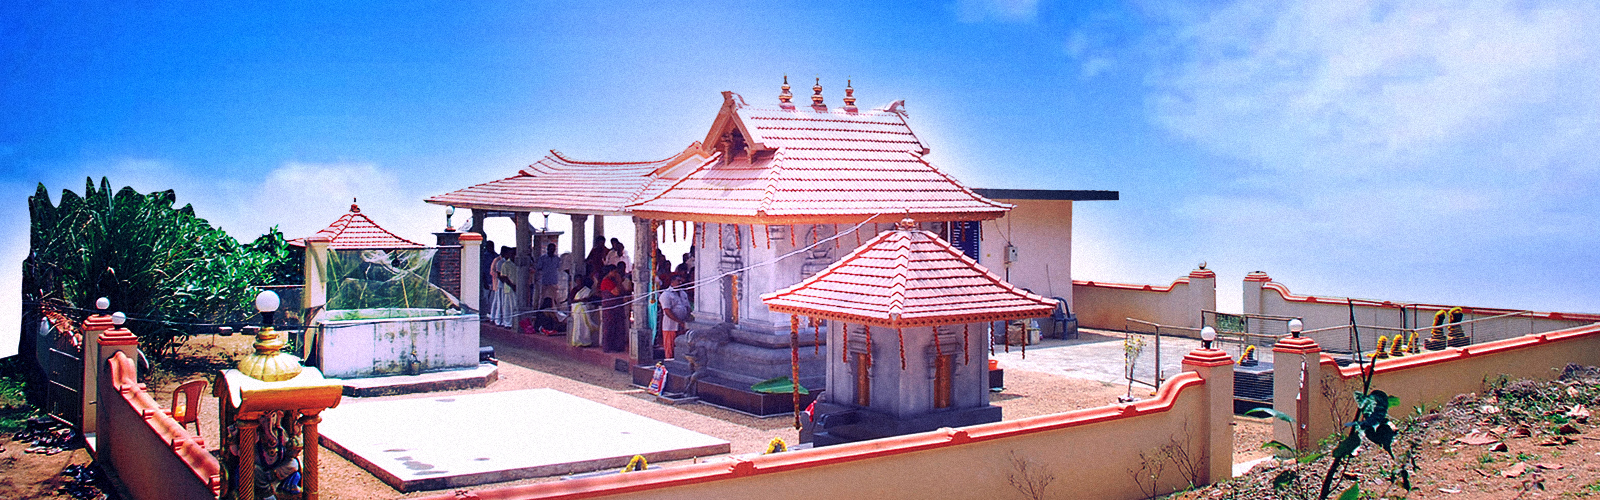
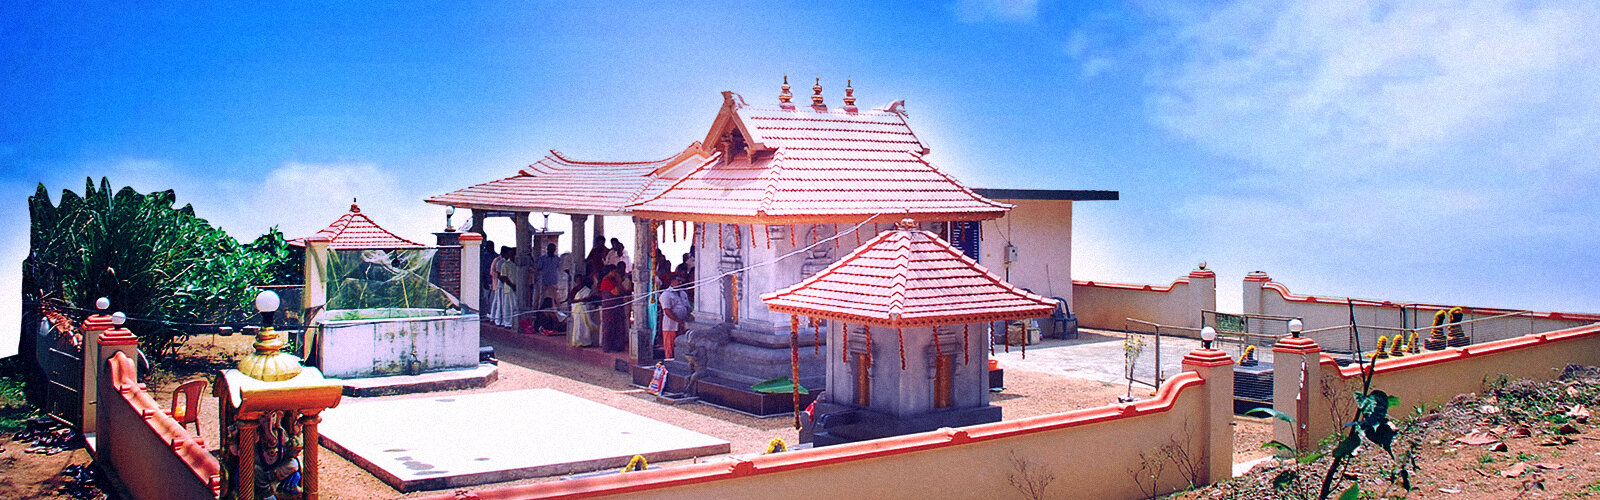
compressed images

Changed region(s): [[0.125, 0.51, 0.1562, 0.57], [0.1562, 0.48, 0.1875, 0.51]]

diff --git a/index.html b/index.html
@@ -90,7 +90,7 @@
                     <div class="card-deck">
                         <!-- news 1 -->
                         <div class="card">
-                            <img class="card-img" src="./images/news-1.png" alt="Card image cap">
+                            <img class="card-img" src="./images/news-1.jpg" alt="Card image cap">
                             <div class="card-img-overlay d-flex flex-wrap align-content-end">
                                 <p class="card-text text-white">
                                     <span class="eng">
@@ -104,7 +104,7 @@
                         </div>
                         <!-- news 2 -->
                         <div class="card">
-                            <img class="card-img" src="./images/news-2.png" alt="Card image cap">
+                            <img class="card-img" src="./images/news-2.jpg" alt="Card image cap">
                             <div class="card-img-overlay d-flex flex-wrap align-content-end">
                                 <p class="card-text text-white">
                                     <span class="eng">
@@ -119,7 +119,7 @@
                         </div>
                         <!-- news 3 -->
                         <div class="card">
-                            <img class="card-img" src="./images/news-3.png" alt="Card image cap">
+                            <img class="card-img" src="./images/news-3.jpg" alt="Card image cap">
                             <div class="card-img-overlay d-flex flex-wrap align-content-end">
                                 <p class="card-text text-white">
                                     <span class="eng">
@@ -133,7 +133,7 @@
                         </div>
                         <!-- news 4 -->
                         <div class="card">
-                            <img class="card-img" src="./images/news-4.png" alt="Card image cap">
+                            <img class="card-img" src="./images/news-4.jpg" alt="Card image cap">
                             <div class="card-img-overlay d-flex flex-wrap align-content-end">
                                 <p class="card-text text-white">
                                     <span class="eng">

diff --git a/nav.html b/nav.html
@@ -10,7 +10,7 @@
      <nav class="navbar navbar-expand-sm bg-transparent navbar-dark justify-content-between flex-column flex-sm-row">
          <!-- Brand -->
          <a class="navbar-brand outer" href="#">
-             <img src="images/logo.png" style="width:6rem;">
+             <img src="images/logo.jpg" style="width:6rem;">
              <span class="logo-text eng">Vellakallunkal <br> Gandharva temple</span>
              <span class="logo-text mal">വെള്ളക്കല്ലുങ്കൽ <br> ക്ഷേത്രം കോത്തല</span>
          </a>

diff --git a/style.css b/style.css
@@ -7,7 +7,7 @@ html {
 }
 
 body {
-    background-image: url("./images/background-texture.png");
+    background-image: url("./images/background-texture.jpg");
 
 }
 
@@ -82,7 +82,7 @@ body {
 
 /* about text */
 .about-card {
-    background-image: url("./images/about-background-texture.png");
+    background-image: url("./images/about-background-texture.jpg");
 }
 
 #about-header {

diff --git a/banner.html b/banner.html
@@ -4,7 +4,7 @@
          <!-- The slideshow -->
          <div class="carousel-inner">
              <div class="carousel-item active">
-                 <img src="./images/slider-1.jpeg">
+                 <img src="./images/slider-1.jpg">
              </div>
              <div class="carousel-item">
                  <img src="./images/slider-2.jpg">
